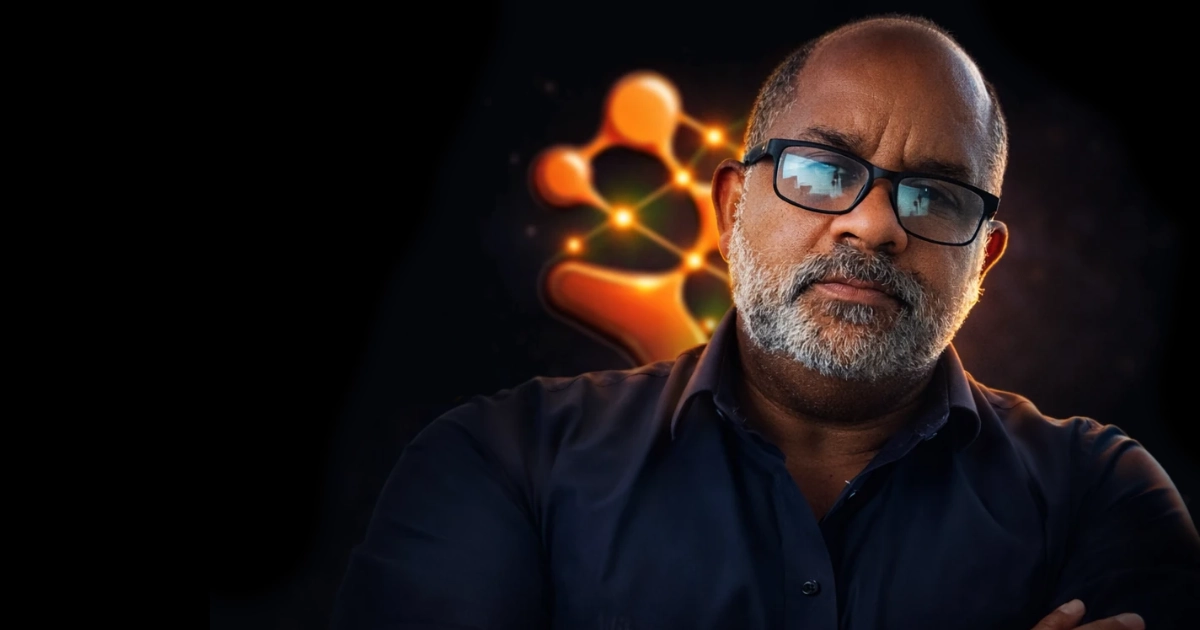
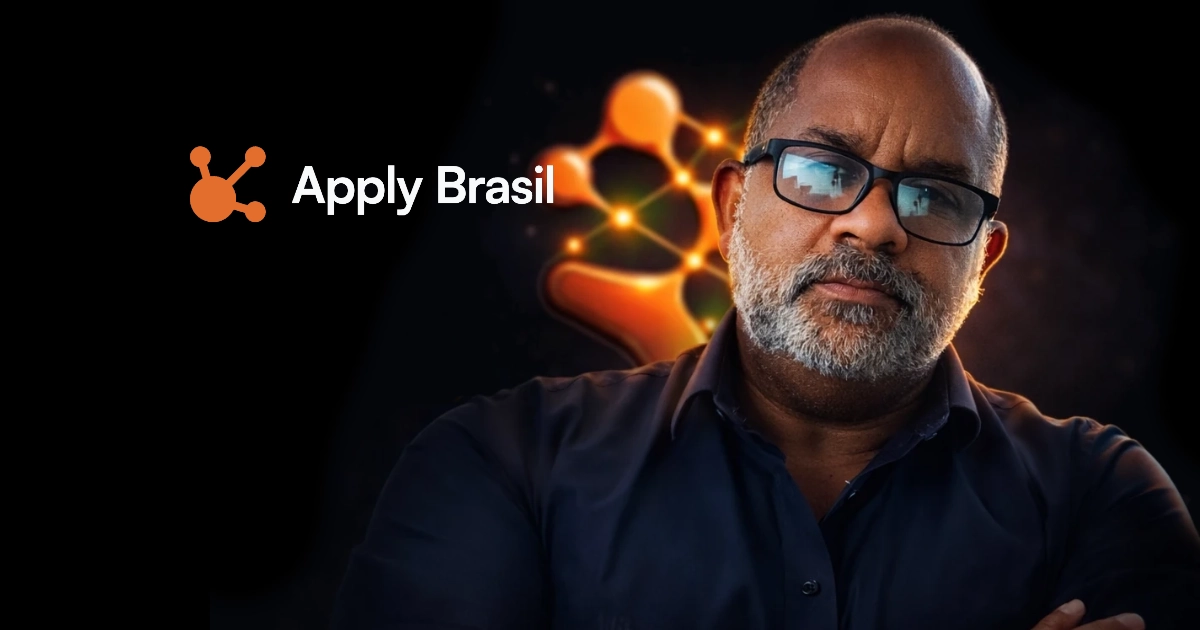
og image

Changed region(s): [[0.2467, 0.2413, 0.4625, 0.3317], [0.1542, 0.2111, 0.2467, 0.3619]]

diff --git a/index.html b/index.html
@@ -76,7 +76,7 @@
     <meta property="og:url" content="https://applybrasil.com.br/" />
     <meta property="og:title" content="Apply Brasil - Marketing Digital com IA" />
     <meta property="og:description" content="Agência de marketing digital com IA para impulsionar suas vendas. Tráfego pago, automações com inteligência artificial e cibersegurança." />
-    <meta property="og:image" content="https://applybrasil.netlify.app/assets/og-image.jpg" />
+    <meta property="og:image" content="https://applybrasil.com/assets/og-image.webp" />
     <meta property="og:image:width" content="1200" />
     <meta property="og:image:height" content="630" />
     <meta property="og:locale" content="pt_BR" />
@@ -86,7 +86,7 @@
     <meta property="twitter:url" content="https://applybrasil.com.br/" />
     <meta property="twitter:title" content="Apply Brasil - Marketing Digital com IA" />
     <meta property="twitter:description" content="Agência de marketing digital com IA para impulsionar suas vendas. Tráfego pago, automações com inteligência artificial e cibersegurança." />
-    <meta property="twitter:image" content="https://applybrasil.netlify.app/assets/og-image.jpg" />
+    <meta property="twitter:image" content="https://applybrasil.com/assets/og-image.webp" />
     
     <!-- Additional SEO -->
     <meta name="robots" content="index, follow" />
@@ -101,7 +101,7 @@
       "@type": "Organization",
       "name": "Apply Brasil",
       "url": "https://applybrasil.com.br",
-      "logo": "https://applybrasil.netlify.app/apllybrasil.svg",
+      "logo": "https://applybrasil.com/apllybrasil.svg",
       "description": "Agência de marketing digital com IA especializada em tráfego pago, automações e cibersegurança",
       "address": {
         "@type": "PostalAddress",
